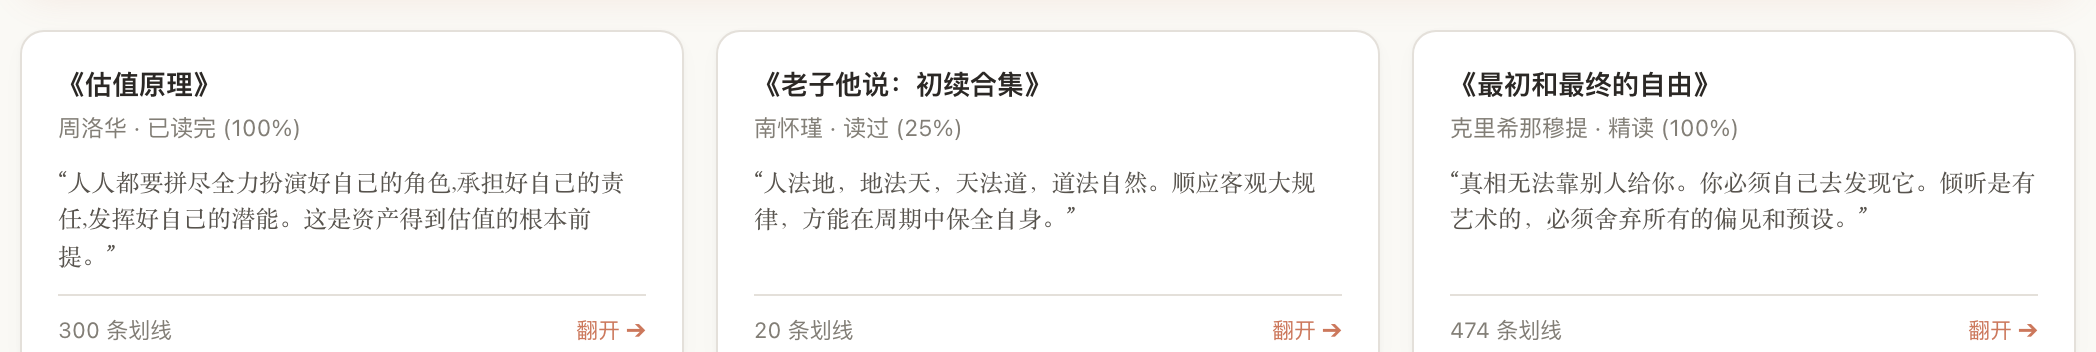
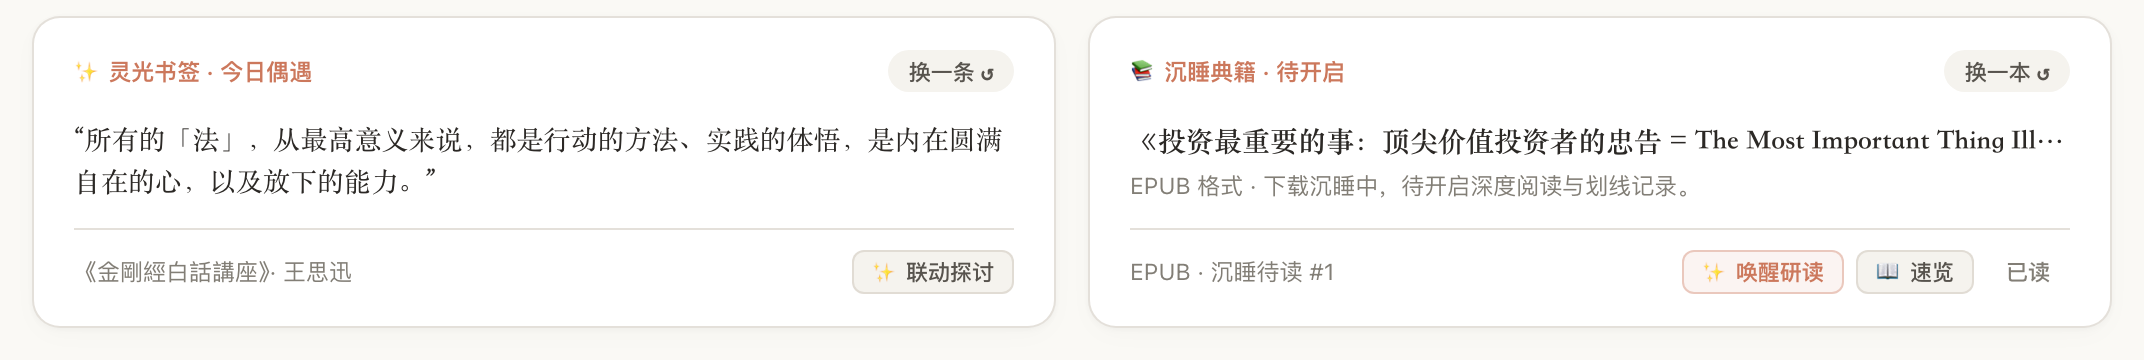
fix: audit and fix dual cards screenshot padding, restore explicit manual sync in UI and README

diff --git a/dashboard/index.html b/dashboard/index.html
@@ -2696,39 +2696,6 @@ ${topic ? `讨论切入：${topic}\n` : ''}
 
 
 
-        let isSyncingData = false;
-        let lastSyncTime = 0;
-
-        async function fetchLatestDataSilently() {
-            const now = Date.now();
-            if (isSyncingData || (now - lastSyncTime < 12000)) return;
-            isSyncingData = true;
-            try {
-                const res = await fetch('/reading-os/api/data', { cache: 'no-store' });
-                if (res.ok) {
-                    const fresh = await res.json();
-                    if (fresh && !fresh.error && fresh.books) {
-                        applyFreshData(fresh);
-                        lastSyncTime = Date.now();
-                        isSyncingData = false;
-                        return;
-                    }
-                }
-            } catch (e) {}
-
-            try {
-                const res2 = await fetch('/reading-os/data.local.json', { cache: 'no-store' });
-                if (res2.ok) {
-                    const fresh2 = await res2.json();
-                    if (fresh2 && !fresh2.error && fresh2.books) {
-                        applyFreshData(fresh2);
-                        lastSyncTime = Date.now();
-                    }
-                }
-            } catch (err) {}
-            isSyncingData = false;
-        }
-
         async function syncReadingData() {
             const btn = document.getElementById('syncBtn');
             btn.classList.add('spinning');
@@ -2740,7 +2707,6 @@ ${topic ? `讨论切入：${topic}\n` : ''}
                     const fresh = await res.json();
                     if (!fresh.error) {
                         applyFreshData(fresh);
-                        lastSyncTime = Date.now();
                         showToast(`✨ 同步完成！已更新至最新阅读进度与下载书目`);
                         btn.classList.remove('spinning');
                         return;
@@ -2926,20 +2892,14 @@ ${topic ? `讨论切入：${topic}\n` : ''}
             document.getElementById('recentConversionRate').innerText = DATA.inventory.conversion_rate || '81.5%';
         }
 
-        // 首次加载立即执行一次静默获取
-        fetchLatestDataSilently();
-
-        // 窗口切回或页面可见时自动刷新（用户在苹果图书划线后切回即自动呈现）
-        document.addEventListener('visibilitychange', () => {
-            if (document.visibilityState === 'visible') fetchLatestDataSilently();
-        });
-        window.addEventListener('focus', () => {
-            fetchLatestDataSilently();
-        });
-        // 激活状态下每 45 秒定时静默检测一次
-        setInterval(() => {
-            if (document.visibilityState === 'visible') fetchLatestDataSilently();
-        }, 45000);
+        // 尝试加载本地静态数据
+        fetch('/reading-os/data.local.json', { cache: 'no-store' })
+            .then(res => {
+                if (res.ok) return res.json();
+                throw new Error('static not ready');
+            })
+            .then(applyFreshData)
+            .catch(() => {});
     </script>
 </body>
 </html>

diff --git a/README.md b/README.md
@@ -74,7 +74,7 @@
 底部放了两个顺手的小卡片：**灵光书签**每次点击随机翻出一句往昔划线，适合工作间隙看一眼；**沉睡之书**则随手翻出以前下载了但还没读的书，提醒自己抽空翻开看看。
 
 <p align="center">
-  <img src="assets/05-dual-practical-cards.png" width="92%" alt="灵光书签与沉睡书籍提醒" style="border-radius: 8px; border: 1px solid rgba(0,0,0,0.06);" />
+  <img src="assets/05-dual-practical-cards.png" width="92%" alt="灵光偶遇与积读提醒" style="border-radius: 8px; border: 1px solid rgba(0,0,0,0.06);" />
 </p>
 
 ---
@@ -91,9 +91,9 @@
 
 ---
 
-### 关于自动刷新
+### 关于数据更新
 
-插件支持静默自动刷新：当你在「图书」App 中读完书、划完线，切回 DeepSeek Harness 窗口时，页面会自动检测并拉取最新数据，无需手动按同步或刷新。
+插件采用手动同步机制：需要更新时，点击顶栏右上角的“同步”按钮，即可读取系统「图书」与本地下载目录的最新数据。默认不进行后台定时轮询，避免频繁触发系统层面的本地数据读取授权弹窗，使用更安心。
 
 ---
 
